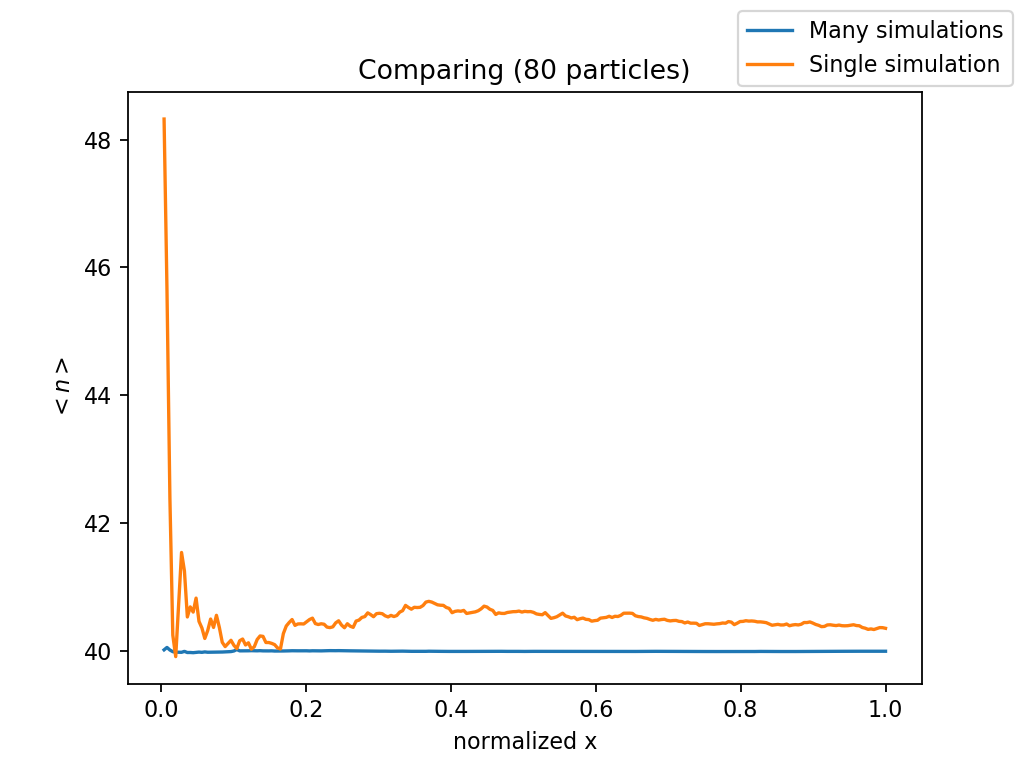
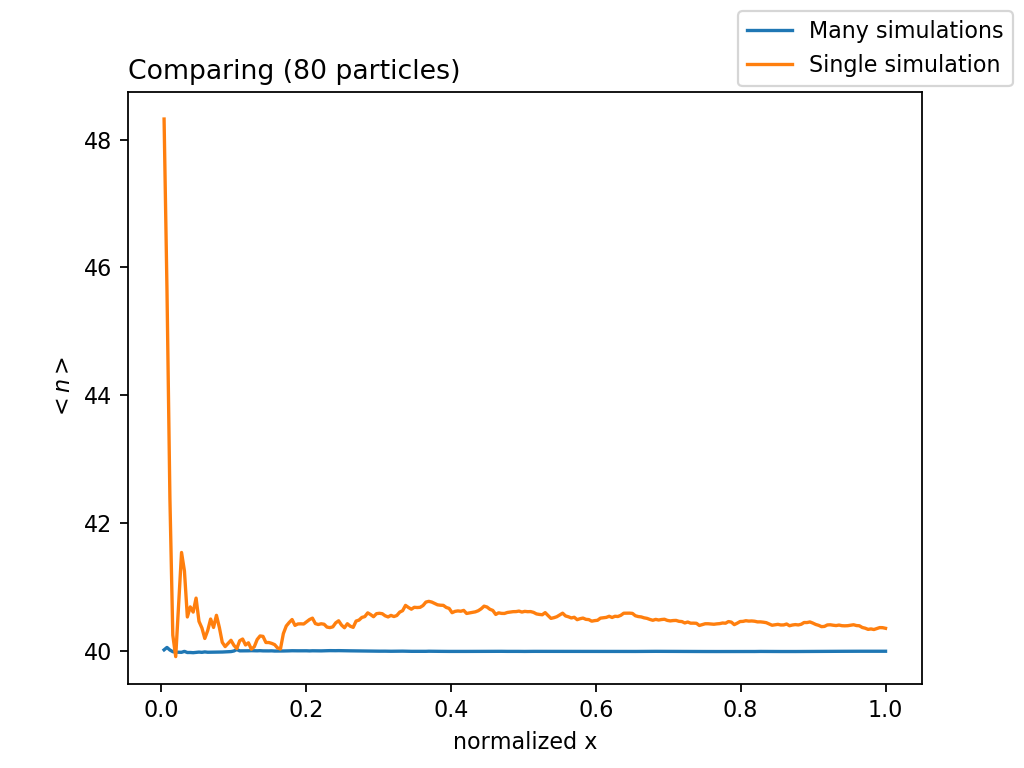
Complete presentation

Changed region(s): [[0.125, 0.0625, 0.6562, 0.125]]

diff --git a/tasks/task3/3_4.py b/tasks/task3/3_4.py
@@ -58,27 +58,28 @@ plt.figure()
 
 singleIndices, singleSimFluctuation = getSquareFluctuations(
     singlevals, 0, 1)
-plt.plot(singleIndices / np.max(singleIndices), singleSimFluctuation)
+lengthSingle = np.amax(singleIndices)
+plt.plot(singleIndices, singleSimFluctuation)
 
 singleIndices, singleSimFluctuation = getSquareFluctuations(
     singlevals, 1/4, 1)
-plt.plot(singleIndices / np.max(singleIndices), singleSimFluctuation)
+plt.plot(singleIndices, singleSimFluctuation)
 
 singleIndices, singleSimFluctuation = getSquareFluctuations(
     singlevals, 2/4, 1)
-plt.plot(singleIndices / np.max(singleIndices), singleSimFluctuation)
+plt.plot(singleIndices, singleSimFluctuation)
 
 singleIndices, singleSimFluctuation = getSquareFluctuations(
     singlevals, 3/4, 1)
-plt.plot(singleIndices / np.max(singleIndices), singleSimFluctuation)
+plt.plot(singleIndices, singleSimFluctuation)
 
-plt.plot([0, 1], [20, 20], linestyle='--')
+plt.plot([0, lengthSingle], [20, 20], linestyle='--')
 
 plt.figlegend(('[0, 1]', '[0.25, 1]', '[0.5, 1]',
                '[0.75, 1]', '$\Delta n^2$ = 20'))
 plt.title(
-    '$\Delta n^2$ on range, single simulation (80 particles)')
-plt.xlabel('normalized step')
+    '$\Delta n^2$ on range, single simulation (80 particles)', loc="left")
+plt.xlabel('step')
 plt.ylabel('$\Delta n^2$')
 plt.savefig("./plots/3_4/single.png", dpi=160)
 
@@ -86,11 +87,11 @@ manyIndices, manySimsFluctuations = getSquareFluctuations(vals)
 singleIndices, singleSimFluctuation = getSquareFluctuations(singlevals)
 
 plt.figure()
-plt.plot(manyIndices / np.max(manyIndices), manySimsFluctuations)
-plt.plot([0, 1], [20, 20], linestyle='--')
-plt.title('Many simulations (80 particles)')
+plt.plot(manyIndices, manySimsFluctuations)
+plt.plot([0, np.amax(manyIndices)], [20, 20], linestyle='--')
+plt.title('Many simulations (80 particles)', loc="left")
 plt.figlegend(('Computed $\Delta n^2$', '$\Delta n^2$ = 20'))
-plt.xlabel('normalized step')
+plt.xlabel('step')
 plt.ylabel('$\Delta n^2$')
 plt.savefig("./plots/3_4/many.png", dpi=160)
 
@@ -99,8 +100,10 @@ plt.figure()
 
 plt.plot(manyIndices / np.max(manyIndices), manySimsFluctuations)
 plt.plot(singleIndices / np.max(singleIndices), singleSimFluctuation)
-plt.title('Comparing (80 particles)')
+plt.title('Comparing (80 particles)', loc="left")
 plt.xlabel('normalized x')
 plt.ylabel('$\Delta n^2$')
-plt.figlegend(('Many simulations', 'Single simulation'))
+plt.figlegend(('Many simulations ({0})'.format(
+    np.amax(manyIndices)), 'Single simulation ({0} steps)'.format(
+    np.amax(singleIndices))))
 plt.savefig("./plots/3_4/comparison.png", dpi=160)

diff --git a/tasks/task3/3_7.py b/tasks/task3/3_7.py
@@ -44,20 +44,28 @@ def runRandomWalk(steps, r0, a, c, m):
     return X, Y, np.array(indices)
 
 
-plt.figure()
-plt.title("1000 steps")
-X, Y, indices = runRandomWalk(1000, 1, 3, 4, 128)
-plotGradientLine(X, Y, indices)
-plt.savefig("./plots/3_7/randomwalk_1000_128.png")
+def runSavePlot(r0, a, c, m):
+    plt.figure()
+    plt.title(
+        "1000 steps (r = {0}, a = {1}, c = {2}, m = {3})".format(r0, a, c, m))
+    X, Y, indices = runRandomWalk(1000, r0, a, c, m)
+    plotGradientLine(X, Y, indices)
+    plt.savefig(
+        "./plots/3_7/randomwalk_1000_r{0}_a{1}_c{2}_m{3}.png".format(r0, a, c, m))
 
-plt.figure()
-plt.title("1000 steps")
-X, Y, indices = runRandomWalk(1000, 1, 3, 4, 129)
-plotGradientLine(X, Y, indices)
-plt.savefig("./plots/3_7/randomwalk_1000_129.png")
 
-plt.figure()
-plt.title("1000 steps")
-X, Y, indices = runRandomWalk(1000, 1, 3, 4, 130)
-plotGradientLine(X, Y, indices)
-plt.savefig("./plots/3_7/randomwalk_1000_130.png")
+runSavePlot(1, 3, 4, 128)
+runSavePlot(1, 3, 4, 129)
+runSavePlot(1, 3, 4, 130)
+
+runSavePlot(1, 3, 4, 128)
+runSavePlot(1, 4, 4, 128)
+runSavePlot(1, 5, 4, 128)
+
+runSavePlot(1, 3, 5, 128)
+runSavePlot(1, 3, 6, 128)
+runSavePlot(1, 3, 7, 128)
+
+runSavePlot(1, 3, 4, 128)
+runSavePlot(2, 3, 4, 128)
+runSavePlot(3, 3, 4, 128)

diff --git a/tasks/task3/3_5.py b/tasks/task3/3_5.py
@@ -77,7 +77,7 @@ plt.plot([0, 1], [40, 40], linestyle='--')
 plt.figlegend(('[0, 1]', '[0.25, 1]', '[0.5, 1]',
                '[0.75, 1]', '$<n>$ = 40'))
 plt.title(
-    '$<n>$ on range, single simulation (80 particles)')
+    '$<n>$ on range, single simulation (80 particles)', loc="left")
 plt.xlabel('normalized step')
 plt.ylabel('$<n>$')
 plt.savefig("./plots/3_5/single.png", dpi=160)
@@ -88,7 +88,7 @@ singleIndices, singleSimAverage = getAverages(singlevals)
 plt.figure()
 plt.plot(manyIndices / np.max(manyIndices), manySimsAverages)
 plt.plot([0, 1], [40, 40], linestyle='--')
-plt.title('Many simulations (80 particles)')
+plt.title('Many simulations (80 particles)', loc="left")
 plt.figlegend(('Computed $<n>$', '$<n>$ = 40'))
 plt.xlabel('normalized step')
 plt.ylabel('$<n>$')
@@ -99,7 +99,7 @@ plt.figure()
 
 plt.plot(manyIndices / np.max(manyIndices), manySimsAverages)
 plt.plot(singleIndices / np.max(singleIndices), singleSimAverage)
-plt.title('Comparing (80 particles)')
+plt.title('Comparing (80 particles)', loc="left")
 plt.xlabel('normalized x')
 plt.ylabel('$<n>$')
 plt.figlegend(('Many simulations', 'Single simulation'))

diff --git a/tasks/task3/3_10.py b/tasks/task3/3_10.py
@@ -90,9 +90,9 @@ def runWithChoice(simLength, canIntersect, preventBackfire):
         # print(summedSquares)
 
     fig = plt.figure()
-    plt.title(
-        "With back-step protection" if preventBackfire else "Without back-step protection")
     ax = plt.axes(projection='3d')
+    ax.set_title(
+        "With back-step protection" if preventBackfire else "Without back-step protection")
     ax.plot_surface(X, Y, Z,
                     cmap='rainbow', edgecolor='none')
     ax.set_xlabel('walk length')
@@ -100,7 +100,7 @@ def runWithChoice(simLength, canIntersect, preventBackfire):
     ax.set_zlabel('$<R^2>$')
     ax.view_init(30, 135 + 90)
     plt.savefig("./plots/3_10/walklen_{0}.png".format(
-                "with" if preventBackfire else "without"))
+                "with" if preventBackfire else "without"), dpi=160)
 
 
 runWithChoice(50, False, True)

diff --git a/tasks/task3/3_8.py b/tasks/task3/3_8.py
@@ -64,4 +64,4 @@ ax.set_xlabel('walk length')
 ax.set_ylabel('walks run per length')
 ax.set_zlabel('$<R^2>$')
 ax.view_init(30, 135 + 90)
-plt.savefig("./plots/3_8/walklen.png")
+plt.savefig("./plots/3_8/walklen.png", dpi=160)
